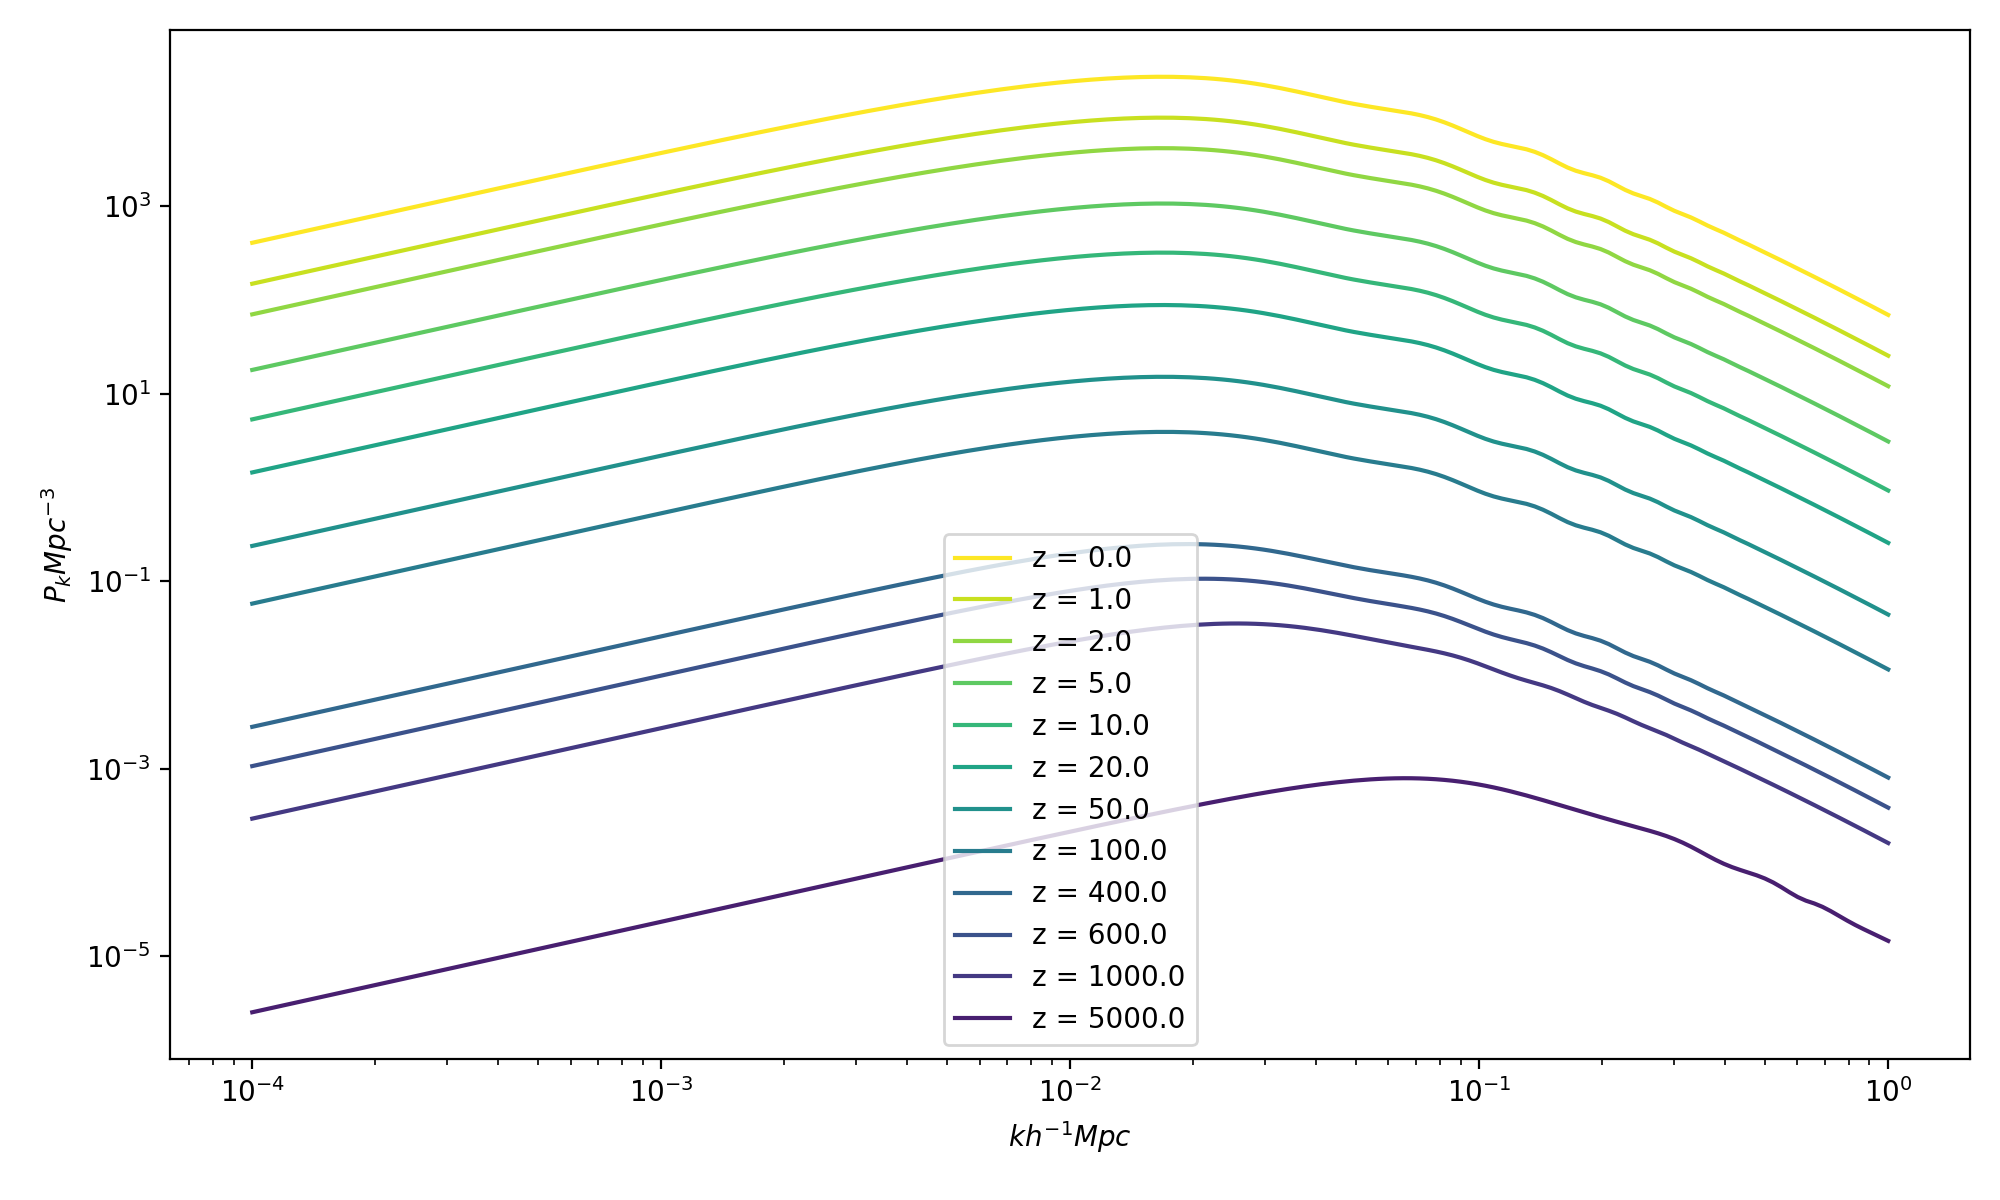
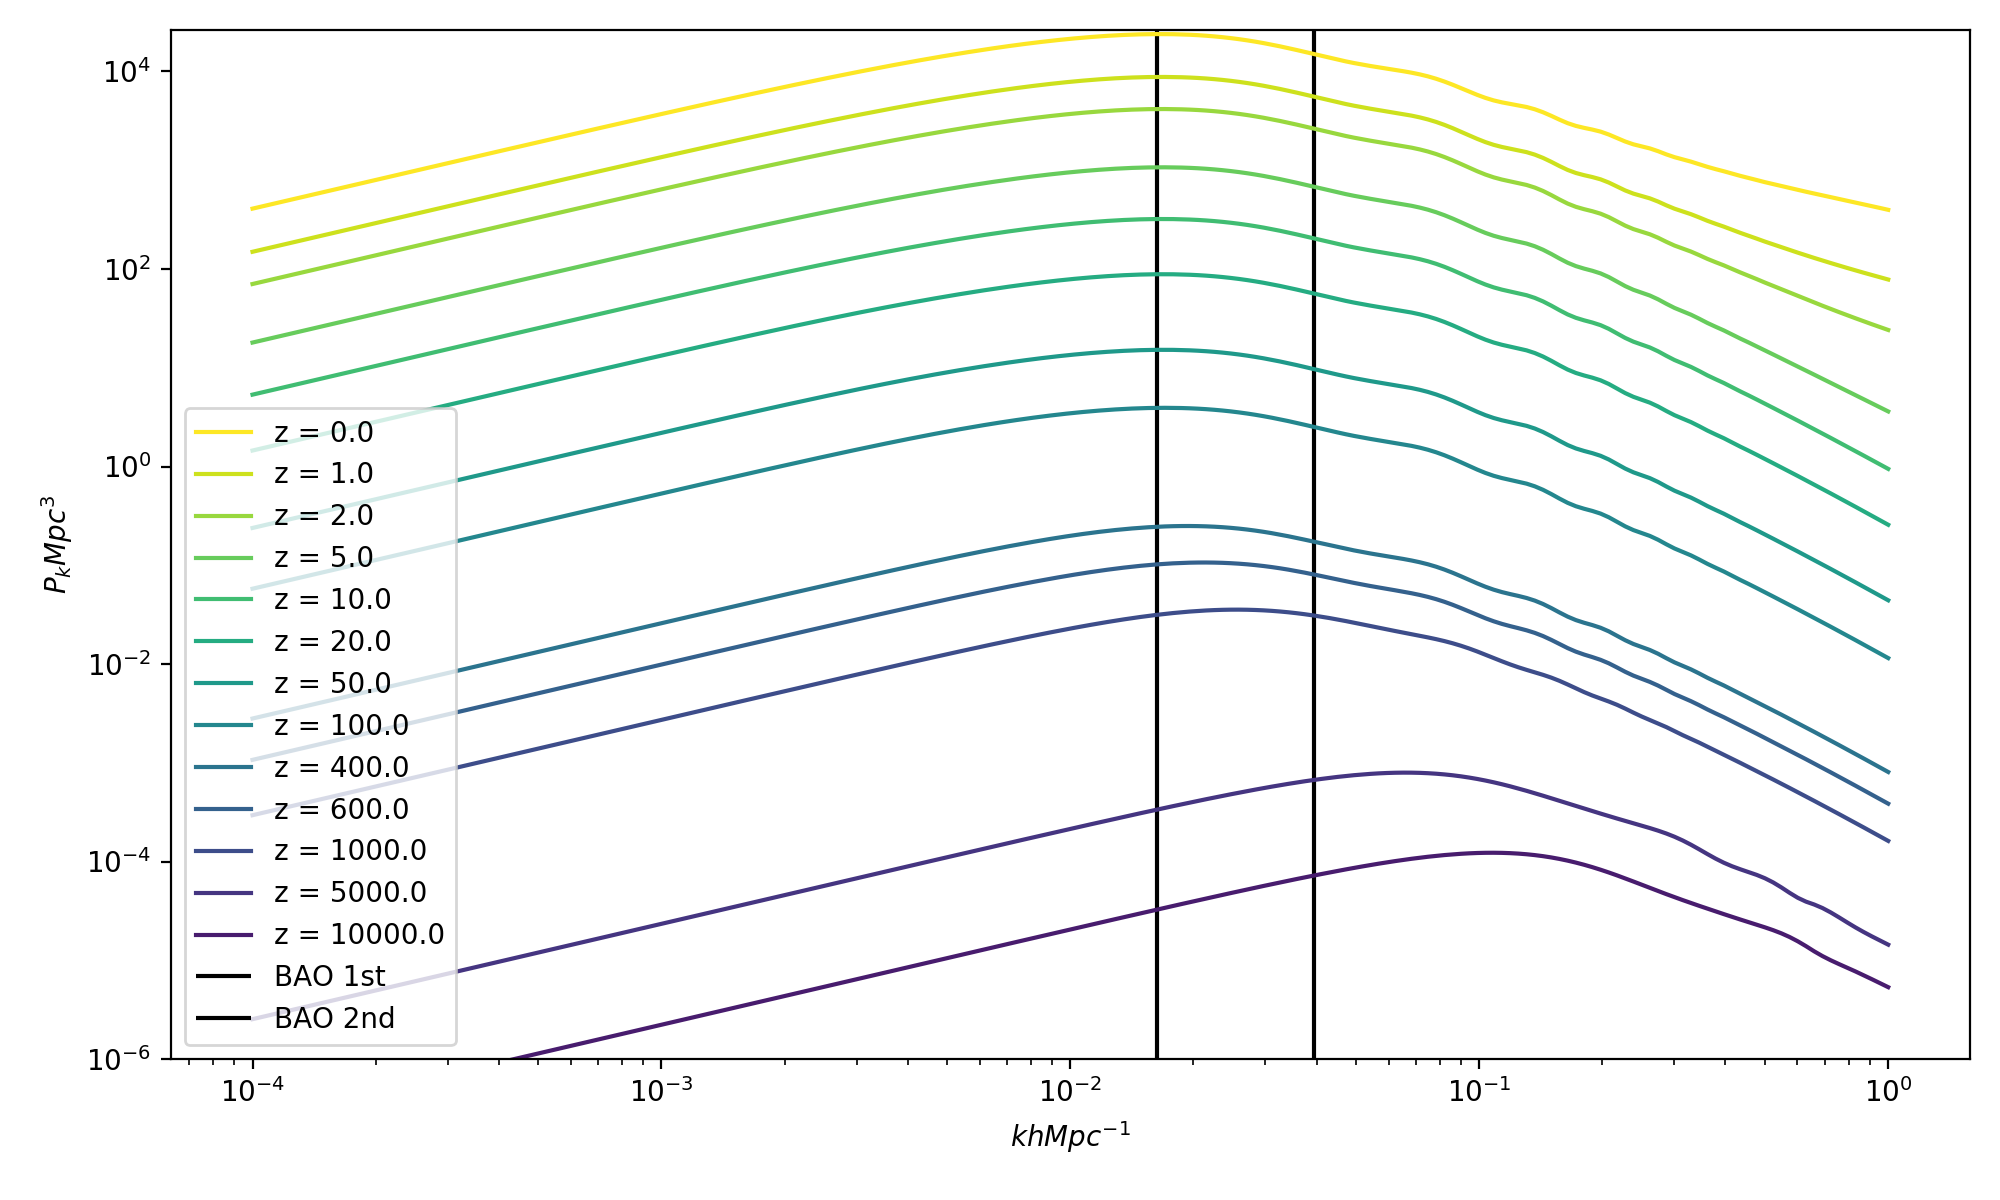
finish until bao

diff --git a/cosmos_hw/camb_bao.py b/cosmos_hw/camb_bao.py
@@ -14,26 +14,39 @@ params.InitPower.set_params(
     As=np.exp(3.0448) * 1e-10, ns=0.96605)
 
 params.set_matter_power(
-    redshifts=[5000., 1000., 600., 400., 100., 50., 20., 10., 5., 2., 1., 0.])
+    redshifts=[9, 2, 1])
+
+# setup non-linear
+params.NonLinear = camb.model.NonLinear_both
 
 results = camb.get_results(params)
 
 kh, zs, pks = results.get_matter_power_spectrum(
     minkh=1e-4, maxkh=1, npoints=200)
 
-fig, ax = plt.subplots(1, 1, figsize=(10, 6))
+fig, ax = plt.subplots(1, 2, figsize=(10, 6))
 
 for i, (z, pk) in enumerate(zip(zs, pks)):
     color = 1 - i / len(zs)
 
-    ax.loglog(kh, pk, 
+    ax[0].loglog(kh, pk, 
         label='z = {}'.format(z), color=viridis(color))
-    ax.set_xlabel('$kh^{-1} Mpc$')
-    ax.set_ylabel('$P_k Mpc^{-3}$')
+    ax[0].set_xlabel('$k h / Mpc$')
+    ax[0].set_ylabel('$P_k$')
 
-ax.legend()
+    ax[1].semilogy(2 * np.pi / (kh*0.674), pk, 
+        label='z = {}'.format(z), color=viridis(color))
+    ax[1].set_xlabel('scale = $2 \pi / k$ Mpc')
+    ax[1].set_ylabel('$P_k$')
+    ax[1].set_xlim(1, 300)
+    
+ax[1].vlines(130, 1, 1e4, label="fitted by my eyes")
+ax[1].vlines(150, 1, 1e4, label="BAO peak supposed to be here", ls='--')
+
+ax[0].legend()
+ax[1].legend()
 
 plt.tight_layout()
 
-plt.savefig("images/bao.png", format='png', dpi=200)
+plt.savefig("images/bao_129.png", format='png', dpi=200)
 plt.show()

diff --git a/cosmos_hw/README.md b/cosmos_hw/README.md
@@ -344,3 +344,58 @@ In general, the power would be reduced.
 
 ## Problem 2.9 The Baryon Acoustic Oscillation Feature
 
+**a) From the matter power spectrum for the default cosmology, identify the Baryon Acoustic Oscillation feature. What is the scale of this feature in comoving Mpc?**
+
+Run `python camb_bao.py`,
+
+![](images/bao_129.png)
+
+I did not get the right scale.
+The first turn-over peak corresponds to ~0.017 h/Mpc ~ 0.01/Mpc ~ 2π / 0.01 Mpc = 628 Mpc, which is the horizon size at matter-radiation equality.
+The following wiggles should be BAO.
+Fit the wiggles by my eyes, I think,
+
+- The first wiggle ~ 125 Mpc
+- The second wiggle ~ 75 Mpc
+
+But the right scale for BAO is 150 Mpc.
+
+And the peak in my plot is very unobvious, which implies I might did something wrong.
+
+I spend 6 hours on this single question, I should move on.
+
+**b) Identify the same feature in the CMB power spectrum. What is the scale of this feature in comoving Mpc in the CMB?**
+
+- For first peak, L = scale = 1.4*10^4 Mpc * π/220 = 199 Mpc.
+- For second peak, L = scale = 1.4*10^4 Mpc * π/530 = 83 Mpc
+
+(1.4*10^4 is the particle horizon size)
+
+**c) Identify the same feature in the z = 1, 2, 9 matter power spectra, giving the scale in comoving Mpc at each redshift.**
+
+Fitted by my eyes, I think
+
+- for z = 1 : first wiggle ~ 125 Mpc
+- for z = 2 : first wiggle ~ 120 Mpc
+- for z = 9 : first wiggle ~ 110 Mpc
+
+**d) Explain why measuring the Baryon Acoustic Oscillation scale is useful for cosmology.**
+
+Because the size of BAO only depends the physics (model) we used,
+it would be a nice cosmic ruler to determine the expansion of the universe
+So we can measure the expansion between recombination and today.
+It would help us to better constrain the accelerating expansion and the property of dark energy.
+
+Reference:
+
+- neutrino :
+  - https://arxiv.org/pdf/1309.5383.pdf 
+  - https://arxiv.org/pdf/1212.6154.pdf
+- BAO :
+  - http://w.astro.berkeley.edu/~mwhite/bao/
+  - https://arxiv.org/pdf/1105.1514.pdf
+  - 1.3.10: https://cosmologist.info/teaching/EU/ADC_Structure_formation2.pdf
+  - http://zuserver2.star.ucl.ac.uk/~hiranya/PHAS3136/PHAS3136/PHAS3136_files/Cosmo6_101112_cmbpower.pdf
+  - http://icc.ub.edu/~liciaverde/TALKS/cosmo6.pdf
+  - https://adh-sj.info/bao_cmb.php
+  - https://physics.stackexchange.com/questions/104010/connection-between-bao-und-cmb-spectrum
